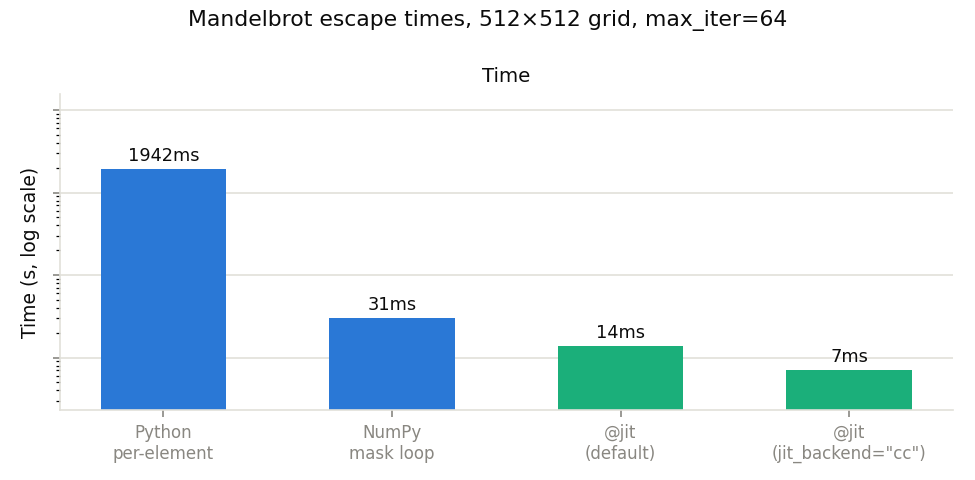
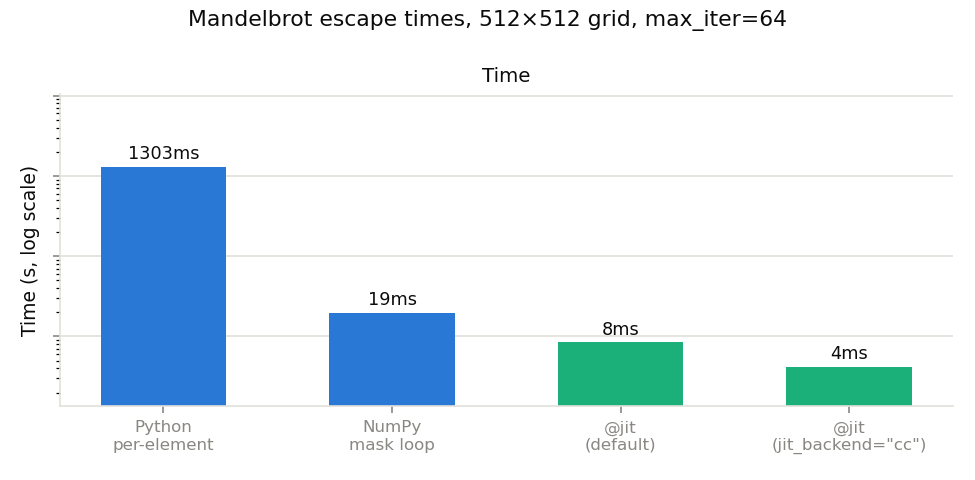
Measure the jit compile cost in tip 15, and refresh its numbers
The tip claimed the one-time compile cost from guesswork ("hundreds of
milliseconds" for cc, "tens of milliseconds" for tcc); tcc is actually
~3 ms.  Measure it instead: the benchmark now times the first call minus
the steady state of the calls after it, in a fresh subprocess with TMPDIR
pointed at a scratch JIT cache that is either wiped (cold) or kept (warm).

That split matters because the two backends amortize differently.  tcc
compiles in memory, every process, every time; cc writes a shared object
into $TMPDIR/miniexpr-jit, so only the first process on a machine pays the
compiler and later ones just load the cached artifact -- cheaper even than
tcc.  The tip gets a table of both, plus how many calls repay cc's cold
compile.

Also add a plain-NumPy bar to the elementwise plot as a scale anchor (all
three jit routes beat it), re-run the whole benchmark, and bring every
speedup in the prose back in line with it -- several had drifted from an
earlier run ("~1.8x slower" for the forced DSL route is now ~1.37x, and
cc's steady-state win is 2.05x on mandelbrot but 1.28x on elementwise, not
"2x on both alike").  Finally, trim the tip of text that does not describe
what the decorator does: a duplicated explanation of why the two routes
exist, a bullet list restating the plot labels, and a couple of asides.

diff --git a/bench/optim_tips/tip_15_jit_control_flow.py b/bench/optim_tips/tip_15_jit_control_flow.py
@@ -11,8 +11,9 @@
 # the whole kernel as DSL), and @blosc2.jit(strict=True) (forces that route) --
 # plus the elementwise contrast that explains why functions *without* control
 # flow still trace: tracing is faster than the forced DSL route for pure
-# elementwise expressions.  A final pair measures the same DSL kernels compiled
-# with jit_backend="cc" (system C compiler) instead of the bundled tcc.
+# elementwise expressions (measured against plain NumPy too, as the scale
+# anchor for all three jit routes).  A final pair measures the same DSL kernels
+# compiled with jit_backend="cc" (system C compiler) instead of the bundled tcc.
 #
 # Peak memory is the same story for every variant here (the result array plus
 # a few temporaries), so the plot is time-only. The script prints a
@@ -20,6 +21,14 @@
 # shows that strict=False cannot even trace this function: the loop condition
 # depends on the traced arrays, so tracing raises instead of recording one
 # path for every element.
+
+import json
+import os
+import shutil
+import subprocess
+import sys
+import tempfile
+from pathlib import Path
 
 import numpy as np
 from common import COLOR_NAIVE, COLOR_TIP, GRID, INK, MUTED, OUT_DIR, measure
@@ -186,6 +195,19 @@ def elementwise_dsl_cc(x):
     )
 
 
+def numpy_route():
+    # The same expression in plain NumPy: the scale anchor for the three jit
+    # routes below, and the first bar of the elementwise plot.
+    x = X
+    return (
+        np.sin(x)
+        + np.cos(x * 2)
+        + np.exp(x * 0.5) * np.sin(x * 3)
+        + np.sqrt(np.abs(x))
+        + np.log1p(np.abs(x))
+    )
+
+
 def trace_route():
     return elementwise(X)
 
@@ -196,6 +218,66 @@ def dsl_route():
 
 def dsl_route_cc():
     return elementwise_dsl_cc(X)
+
+
+# --- One-time compile cost -------------------------------------------------
+#
+# The timings above are steady state: measure() reports the best of three
+# calls, so the compile that happens on the *first* call is excluded. This
+# section measures that first call instead -- the penalty a user actually pays
+# -- as (first call) - (best of the five that follow).
+#
+# The two backends amortize it very differently, which is why "cold" and "warm"
+# are measured separately. tcc compiles in memory, every process, every time.
+# cc writes a shared object into $TMPDIR/miniexpr-jit keyed by a fingerprint of
+# the kernel IR + dtypes + toolchain, so only the first process on a machine
+# pays the compiler; later ones dlopen the cached artifact. Each measurement
+# therefore runs in a fresh subprocess with TMPDIR pointed at a scratch dir
+# that is either wiped first (cold) or kept from the previous run (warm) -- and
+# never at the user's real cache, which the steady-state timings above rely on.
+_COMPILE_DRIVER = """\
+import importlib.util, json, os, sys, time
+sys.path.insert(0, os.path.dirname(sys.argv[1]))
+spec = importlib.util.spec_from_file_location("_bench_mod", sys.argv[1])
+mod = importlib.util.module_from_spec(spec)
+spec.loader.exec_module(mod)  # module-level setup, and the @jit decorators
+fn = getattr(mod, sys.argv[2])
+t0 = time.perf_counter()
+fn()
+first = time.perf_counter() - t0
+steady = float("inf")
+for _ in range(5):
+    t0 = time.perf_counter()
+    fn()
+    steady = min(steady, time.perf_counter() - t0)
+print(json.dumps({"first": first, "steady": steady}))
+"""
+
+
+def measure_compile(func_name, cache_dir, cold, reps=3):
+    """First-call penalty of func_name(), in a fresh process with its own JIT cache.
+
+    Best of `reps` processes, for the same reason common.measure() takes the best
+    of three calls: the very first cc compile of a session runs ~1.5x slower than
+    the settled one (the compiler binary itself is cold), and that is an artifact
+    of the harness, not of the backend.
+    """
+    best = float("inf")
+    for _ in range(reps):
+        if cold:
+            shutil.rmtree(cache_dir, ignore_errors=True)
+        Path(cache_dir).mkdir(parents=True, exist_ok=True)
+        proc = subprocess.run(
+            [sys.executable, "-c", _COMPILE_DRIVER, str(Path(__file__).resolve()), func_name],
+            capture_output=True,
+            text=True,
+            env={**os.environ, "TMPDIR": str(cache_dir)},
+        )
+        if proc.returncode != 0:
+            raise RuntimeError(f"{func_name} failed:\n{proc.stderr}")
+        data = json.loads(proc.stdout.strip().splitlines()[-1])
+        best = min(best, data["first"] - data["steady"])
+    return best
 
 
 def bars(ax, title, labels, values, fmt, log=False, colors=None):
@@ -280,7 +362,7 @@ if __name__ == "__main__":
     # --- Timings ---
     mandel_names = ("py_loop", "numpy_masked", "jit_default", "jit_strict", "jit_cc")
     t = {}
-    for name in mandel_names + ("trace_route", "dsl_route", "dsl_route_cc"):
+    for name in mandel_names + ("numpy_route", "trace_route", "dsl_route", "dsl_route_cc"):
         t[name], rss = measure(__file__, name)
         print(f"{name:<13} {t[name]:8.4f}s   peak {rss / 1e6:6.1f} MB")
 
@@ -288,9 +370,35 @@ if __name__ == "__main__":
     for name in mandel_names[1:]:
         print(f"  {name:<13} {t['py_loop'] / t[name]:6.1f}x faster than py_loop")
     print(f"  elementwise: trace {t['dsl_route'] / t['trace_route']:.2f}x faster than forced DSL")
+
+    print("\nelementwise vs plain NumPy:")
+    for name in ("trace_route", "dsl_route", "dsl_route_cc"):
+        print(f"  {name:<13} {t['numpy_route'] / t[name]:.2f}x faster than numpy_route")
     print("\njit_backend='cc' vs default tcc (steady state):")
     print(f"  mandel:      {t['jit_default'] / t['jit_cc']:.2f}x faster with cc")
     print(f"  elementwise: {t['dsl_route'] / t['dsl_route_cc']:.2f}x faster with cc")
+
+    # --- One-time compile cost (first call minus steady state) ---
+    print("\none-time compile cost (first call - steady state), fresh process:")
+    with tempfile.TemporaryDirectory(prefix="tip15-jitcache-") as cache_dir:
+        c = {}
+        for label, func_name in (
+            ("mandel  tcc", "jit_default"),
+            ("mandel  cc ", "jit_cc"),
+            ("elemwise tcc", "dsl_route"),
+            ("elemwise cc ", "dsl_route_cc"),
+        ):
+            cold = measure_compile(func_name, cache_dir, cold=True)
+            warm = measure_compile(func_name, cache_dir, cold=False)
+            c[func_name] = (cold, warm)
+            print(f"  {label}   cold {cold * 1000:7.1f} ms   warm cache {warm * 1000:6.1f} ms")
+    # How many calls it takes for cc's steady-state win to repay its cold compile.
+    for label, tcc_name, cc_name in (
+        ("mandel", "jit_default", "jit_cc"),
+        ("elementwise", "dsl_route", "dsl_route_cc"),
+    ):
+        saved = t[tcc_name] - t[cc_name]
+        print(f"  {label}: cc repays its cold compile after {c[cc_name][0] / saved:.0f} calls")
 
     msecs = lambda v: f"{v * 1000:.0f}ms"  # noqa: E731
 
@@ -313,8 +421,8 @@ if __name__ == "__main__":
     )  # fmt: skip
     bars(
         ax, "Time",
-        ("@jit\n(default)", '@jit(strict=True)\n(jit_backend="tcc")', '@jit(strict=True)\n(jit_backend="cc")'),
-        [t["trace_route"], t["dsl_route"], t["dsl_route_cc"]], msecs,
-        colors=(COLOR_NAIVE, COLOR_TIP, COLOR_TIP),
+        ("NumPy", "@jit\n(default)", '@jit(strict=True)\n(jit_backend="tcc")', '@jit(strict=True)\n(jit_backend="cc")'),
+        [t["numpy_route"], t["trace_route"], t["dsl_route"], t["dsl_route_cc"]], msecs,
+        colors=(COLOR_NAIVE, COLOR_TIP, COLOR_TIP, COLOR_TIP),
     )  # fmt: skip
     save(fig, "tip_15b_jit_elementwise.png")

diff --git a/doc/guides/optimization_tips.md b/doc/guides/optimization_tips.md
@@ -86,16 +86,16 @@ The output passes light uniformity checks against NumPy's PCG64 (the benchmark s
 
 There are two routes the {func}`@blosc2.jit <blosc2.jit>` decorator can take because they are good at different things:
 
-- **No control flow → tracing (the default).** `jit` calls your function once with proxy operands, records the `LazyExpr` it builds, and evaluates that expression vectorized over whole chunks. This is the faster route for plain elementwise math.
-- **Control flow → the whole function is compiled.** A traced call only ever walks *one* path through an `if` or a loop, so the other paths would be silently lost. So when `jit` sees control flow and the body fits the DSL grammar, it compiles the entire function with the same miniexpr engine that enables the {func}`@blosc2.dsl_kernel <blosc2.dsl_kernel>` decorator and runs the compiled kernel chunk by chunk.
+- **No control flow → tracing (the default).** `jit` calls your function once with proxy operands, records the `LazyExpr` it builds, and evaluates that expression *vectorized* over whole chunks. This is the faster route for plain elementwise math.
+- **Control flow → the whole function is compiled.** A traced call only ever walks *one* path through an `if` or a loop, so the other paths would be silently lost. So when `jit` sees control flow *and* the body fits the DSL grammar, it compiles the entire function with the same miniexpr engine that enables the {func}`@blosc2.dsl_kernel <blosc2.dsl_kernel>` decorator and runs the *compiled* kernel chunk by chunk.
 
-In short: you can write `if`, `for` and `while` inside a {func}`@blosc2.jit <blosc2.jit>`-decorated function and they will work as intended, provided the body sticks to the [DSL grammar](../reference/dsl_syntax.md). But be aware that this route is different from tracing.
-
-Why the two routes? Because tracing is usually faster when it works: the traced expression is evaluated as one vectorized miniexpr over whole chunks, while a compiled kernel has to loop element by element.  Keep reading for examples of both, and the knobs to force one route or the other.
+In short: you can write `if`, `for` and `while` inside a {func}`@blosc2.jit <blosc2.jit>`-decorated function and they will work as intended, provided the body sticks to the [DSL grammar](../reference/dsl_syntax.md).
 
 ### An example: Mandelbrot escape times
 
-Escape-time counting is a per-pixel loop with an early `break` — exactly the shape tracing cannot represent. Let's compute the escape count of a 512×512 patch of the Mandelbrot set (`max_iter=64`) and compare the ways of running it:
+Escape-time counting is a per-pixel loop with an early `break` — exactly the scenario that tracing/vectorizing cannot represent.
+
+Let's compute the escape count of a 512×512 patch of the Mandelbrot set (`max_iter=64`) and compare the ways of running it:
 
 ```python
 def mandel_py(cr, ci, max_iter):  # plain Python: one loop per pixel
@@ -126,16 +126,11 @@ def mandel_jit(cr, ci, max_iter):
 iterations = mandel_jit(CR, CI, 64)  # CR, CI: the two float32 grids
 ```
 
-The benchmark times these four variants, and checks that every one of them returns escape counts bit-identical to the pure-Python reference (a fifth, `@blosc2.jit(strict=True)`, is checked too; it is the same route as `mandel_jit`, just forced):
-
-- `mandel_py` — plain Python, one loop per pixel
-- `mandel_numpy` — vectorized NumPy mask iteration
-- `mandel_jit` — the `@blosc2.jit` above: control flow detected, kernel compiled whole
-- `mandel_cc` — same, with `@blosc2.jit(jit_backend="cc")`: the system C compiler instead of the bundled tcc (tradeoffs in a section of their own below)
+The benchmark times four variants — the Python loop above, a vectorized NumPy mask iteration, the `@blosc2.jit` above, and the same kernel with `@blosc2.jit(jit_backend="cc")` (the system C compiler instead of the bundled tcc, with tradeoffs of its own below) — and checks that all of them return escape counts bit-identical to the pure-Python reference:
 
 ![Mandelbrot escape times across jit modes](optim_tips/tip_15a_jit_control_flow.png)
 
-The default `@blosc2.jit` is **~140x faster than the Python loop** and **~2x faster than the best plain-NumPy version**, and it is simply the loop you would have written anyway. The NumPy version, by contrast, costs 15 lines of `alive`/`escaped` mask bookkeeping plus an overflow trap (after a pixel escapes, its `zr, zi` keep growing and go `inf`/`nan` in float32, so the mask loop must not rely on them).
+The default `@blosc2.jit` is **~155x faster than the Python loop** and **~2.3x faster than the best plain-NumPy version** (with `jit_backend="cc"`, ~317x and ~4.7x), and it is simply the loop you would have written anyway. The NumPy version, by contrast, costs ~15 lines of `alive`/`escaped` mask bookkeeping plus an overflow trap for the pixels that already escaped.
 
 Operands may equally be on-disk {class}`~blosc2.NDArray` objects: the same kernel over `blosc2.asarray()` views of the two grids runs at the same speed and returns a plain NumPy array.
 
@@ -146,7 +141,7 @@ The DSL grammar is narrower than Python, and a body that misses it falls back to
 - **Simple assignments only.** The tuple assignment `zr, zi = ...` of the Python reference is not valid DSL; that is why the jit version uses a `zr2` temporary.
 - **No docstring in the kernel body.**
 
-The [DSL syntax reference](../reference/dsl_syntax.md) has the full grammar. To turn that silent fallback into a hard error, decorate with `@blosc2.jit(strict=True)`: it forces the DSL route and raises `DSLSyntaxError` at *decoration* time if the function cannot be compiled. It is also the only way to reach the DSL route through `df.apply(..., engine=blosc2.jit(strict=True))`.
+The [DSL syntax reference](../reference/dsl_syntax.md) has the full grammar. To turn that silent fallback into a hard error, decorate with `@blosc2.jit(strict=True)`: it forces the DSL route and raises `DSLSyntaxError` at *decoration* time if the function cannot be compiled.
 
 The opposite knob, `strict=False`, forces tracing even when there is control flow. On this function it fails loudly — tracing evaluates `if zr * zr + zi * zi > 4.0` on an array, which raises `ValueError`. The dangerous case is a branch on a plain Python value instead (say `if max_iter > 100`): tracing records only the path that one call happened to take, and that path is then reused for every element, quietly. So use `strict=False` only when the branches depend on Python values, never on the arrays.
 
@@ -173,15 +168,26 @@ Measured over 8M float32 values:
 
 ![Elementwise: tracing vs forced DSL](optim_tips/tip_15b_jit_elementwise.png)
 
-The default `@blosc2.jit` (which traces) is the faster route here: forcing the DSL route with `strict=True` is **~1.8x slower** with the bundled tcc, and only matches tracing when compiled with `jit_backend="cc"` (the plots show the exact times). Note that `jit_backend="cc"` alone does *not* switch an elementwise function to the compiled route; it keeps tracing, at the same speed.
+The first bar is the same expression in plain NumPy, as a scale anchor: all three jit routes beat it — the traced default by **~3.2x**, and even the slowest of them, the forced DSL kernel on tcc, by ~2.3x.
+
+Among the three, the default `@blosc2.jit` (which traces) is the faster route here: forcing the DSL route with `strict=True` is **~1.37x slower** with the bundled tcc, and gets close to tracing when compiled with `jit_backend="cc"` (still ~1.07x slower; the plot shows the exact times). Note that `jit_backend="cc"` alone does *not* switch an elementwise function to the compiled route; it keeps tracing, at the same speed.
 
 So, use `strict=True` when you want the compiled-kernel guarantee, even if sometimes it may cost you speed.
 
 ### Pros and cons of forcing the system compiler
 
-`jit_backend="cc"` is roughly **2x faster** in steady state on both kernels above (mandelbrot and elementwise alike), with identical results.
+`jit_backend="cc"` is faster in steady state on both kernels above — **~2.05x** on the mandelbrot kernel and **~1.28x** on the elementwise one — with identical results.
 
-The price is the one-time compile: the first call pays **hundreds of milliseconds** while the system compiler builds a shared object, where [tcc](https://bellard.org/tcc/) (the default) takes only **tens of milliseconds**. The artifact for the `cc` backend is cached on disk, so later processes load it in milliseconds. So `cc` pays off for kernels you call repeatedly in the same run (or across runs), or when run time is much larger than compile time. It also requires a C compiler and a writable cache directory.
+The price is the one-time compile. The benchmark measures it as the first call minus the steady state of the calls that follow it, in a fresh process:
+
+| kernel | tcc (the default) | cc, cold cache | cc, warm cache |
+| --- | --- | --- | --- |
+| mandelbrot | 3.2 ms | 233 ms | 1.3 ms |
+| elementwise | 4.0 ms | 253 ms | 2.9 ms |
+
+[tcc](https://bellard.org/tcc/) compiles in memory, so every process pays those few milliseconds again. `cc` writes a shared object into `$TMPDIR/miniexpr-jit`, keyed by a fingerprint of the kernel, its dtypes and the toolchain: only the *first* process on a machine pays the compiler, and later ones just load the cached artifact — cheaper even than tcc's in-memory compile. And that cold compile is repaid by the faster steady state after ~54 calls of the mandelbrot kernel (~42 of the elementwise one).
+
+So `cc` pays off for kernels you call repeatedly in the same run (or across runs), or when run time is much larger than compile time. It also requires a C compiler and a writable cache directory.
 
 The same switch is available globally through the `BLOSC_ME_JIT=cc` environment variable, which wins over the keyword argument.
 
